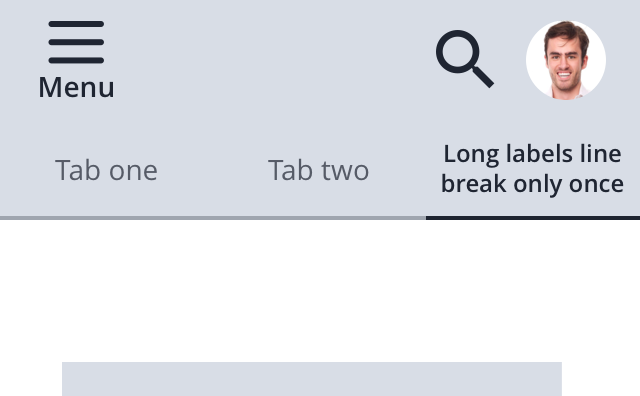
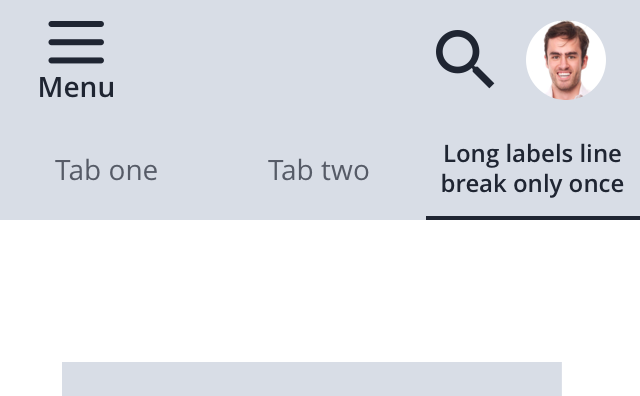
began specs

Changed region(s): [[0.0, 0.5455, 0.6562, 0.5758]]

diff --git a/app/styles/base/_application.scss b/app/styles/base/_application.scss
@@ -73,10 +73,11 @@ hr {
 
 
 $app-tab-stroke: 2px;
-$app-tab-inactive-color: rgba($color__asphalt, .7);
+$app-tab-active-color: $color__asphalt;
+$app-tab-inactive-color: rgba($app-tab-active-color, .7);
 .app-tabs {
   border-bottom: 0;
-  // font-size: 14px;
+  font-size: 14px;
 
   li,
   .app-tabs__tab {
@@ -92,12 +93,12 @@ $app-tab-inactive-color: rgba($color__asphalt, .7);
       a:hover,
       a:active,
       a:focus {
-        color: $color__asphalt;
+        color: $app-tab-active-color;
         background-color: transparent;
         font-weight: 600;
         border-top: none;
         border-right: none;
-        border-bottom: $app-tab-stroke solid $color__asphalt;
+        border-bottom: $app-tab-stroke solid $app-tab-active-color;
         border-left: none;
       }
     }
@@ -258,4 +259,13 @@ $app-tab-inactive-color: rgba($color__asphalt, .7);
     }
   }
 
+}
+
+
+.app-spec-list {
+  margin-left: 20px;
+  &__item {
+    list-style: initial;
+    margin-left: 10px;
+  }
 }

diff --git a/app/styles/components/_hca-specs.scss b/app/styles/components/_hca-specs.scss
@@ -1,5 +1,6 @@
 .hca-specs {
   background-color: $color__white;
+  margin-bottom: 30px;
 
   ul {
     margin-bottom: 5px;
